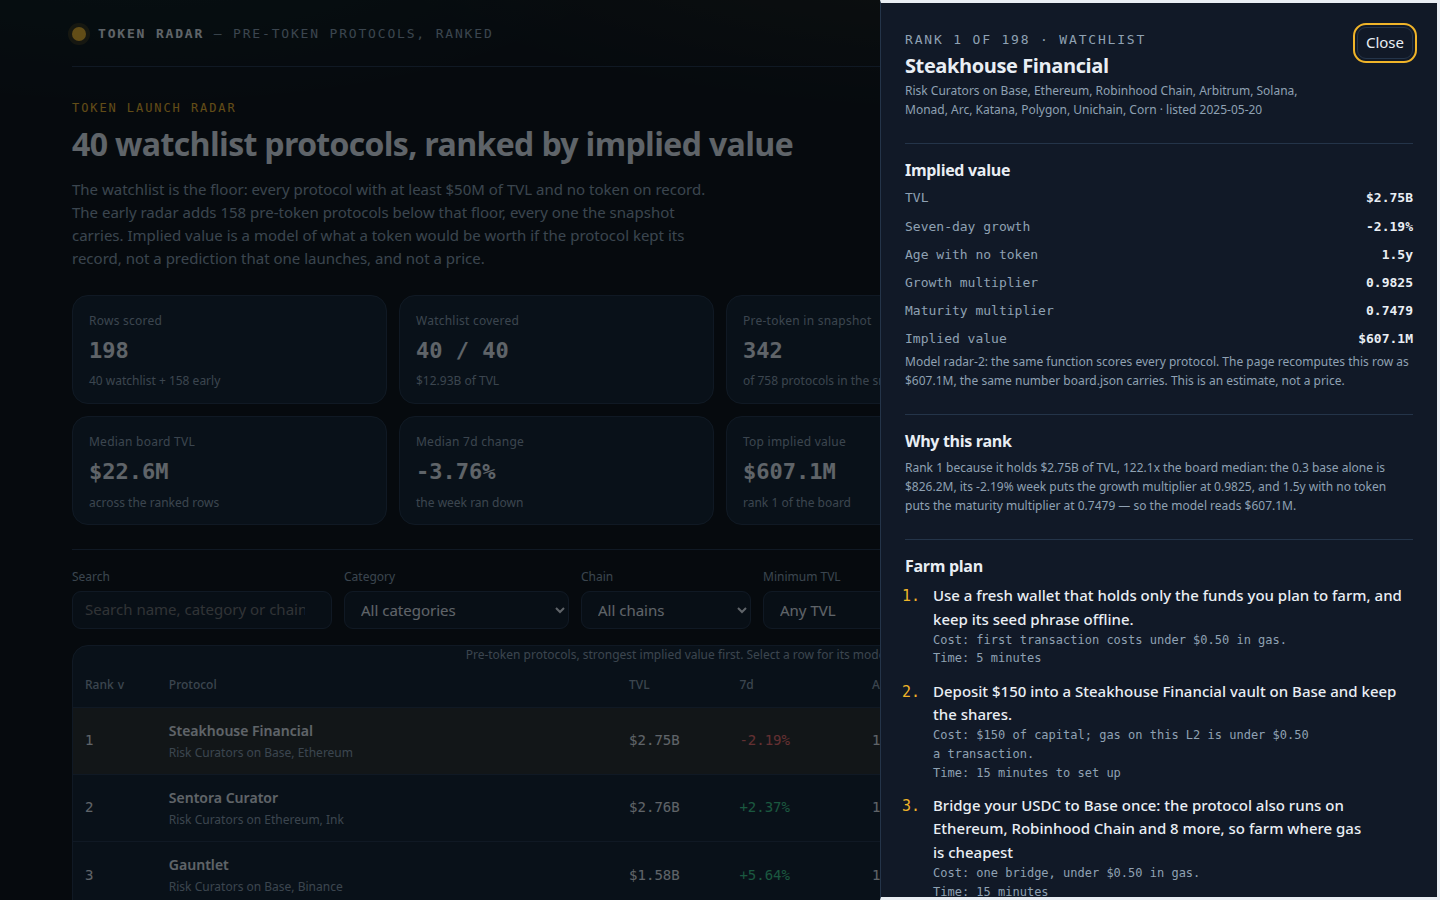
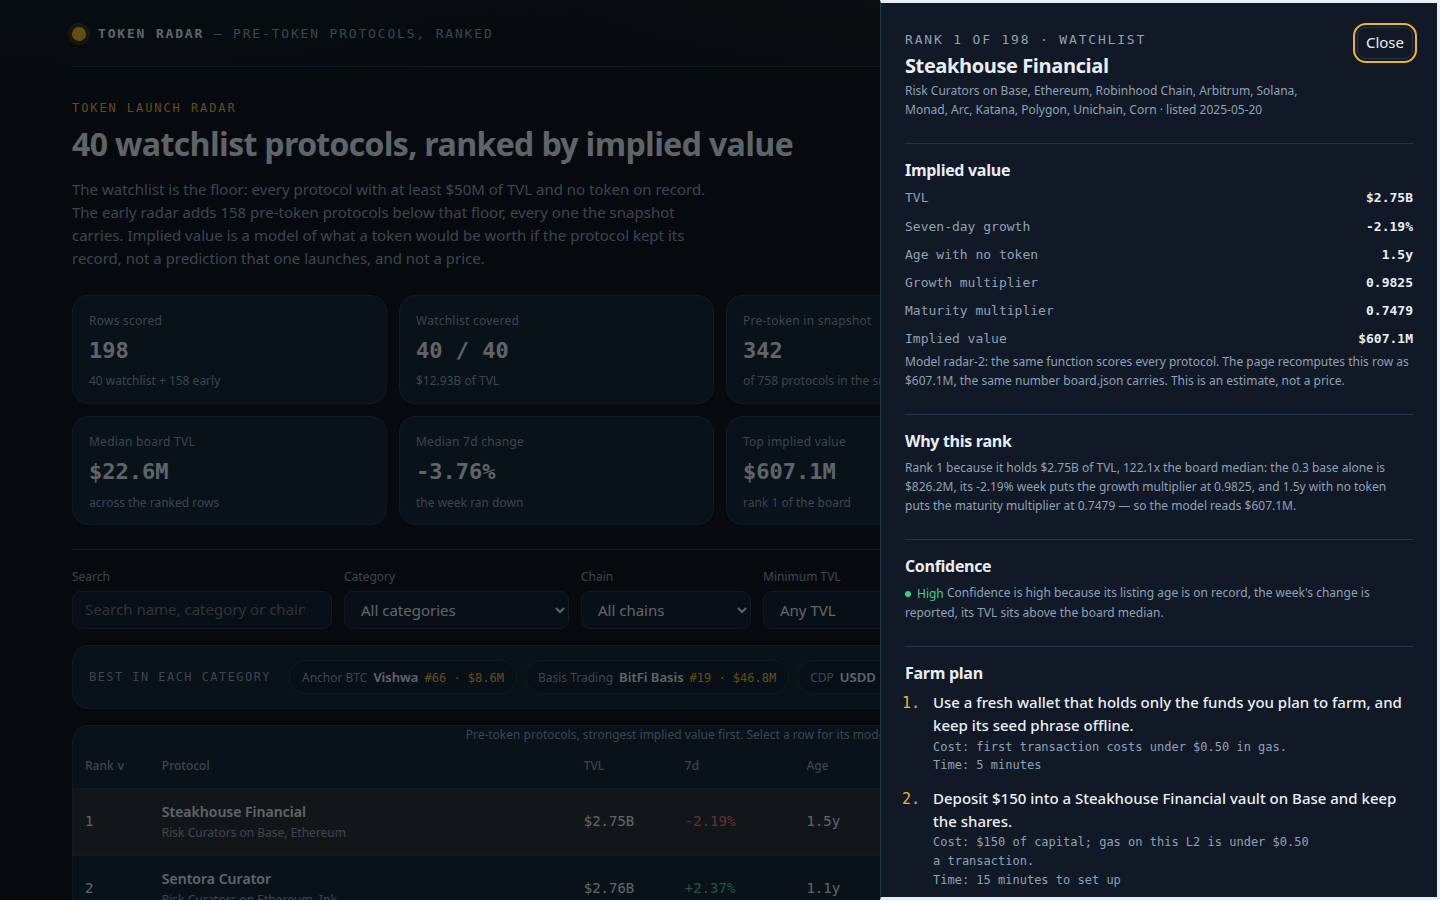
Round 3: confidence badge + Best-in-category strip + momentum risk note

diff --git a/dashboard/app.js b/dashboard/app.js
@@ -43,6 +43,33 @@ function whyRank(row, model, medianTvl) {
   return 'Rank ' + row.rank + ' because it holds ' + fmtUsd(row.tvl_usd) + ' of TVL, ' + ratio + 'x the board median: the ' + model.base_multiple + ' base alone is ' + fmtUsd(base) + ', ' + growth + ', and ' + age + ' puts the maturity multiplier at ' + row.maturity_multiplier + ' — so the model reads ' + fmtUsd(row.implied_value_usd) + '.';
 }
 
+/** A row's confidence, the same rule lib/model.ts writes to board.json: high needs a recorded
+    age, a reported 7-day change and a TVL at or above the board median; low is an estimated
+    age together with a missing week or a fall past 10%, worse than the board median's -8.2%
+    week; everything else is medium. */
+function confidenceOf(row, medianTvl) {
+  var ageKnown = row.age_days !== null && row.age_days !== undefined;
+  var growthKnown = row.change_7d !== null && row.change_7d !== undefined;
+  var aboveMedian = row.tvl_usd >= medianTvl;
+  if (ageKnown && growthKnown && aboveMedian) return 'high';
+  if (!ageKnown && (!growthKnown || row.change_7d < -10)) return 'low';
+  return 'medium';
+}
+function confidenceLabel(conf) { return conf.charAt(0).toUpperCase() + conf.slice(1); }
+/** One line on what drove a row's confidence, from the same three facts the rule reads. */
+function confidenceWhy(row, medianTvl) {
+  var conf = confidenceOf(row, medianTvl);
+  var ageKnown = row.age_days !== null && row.age_days !== undefined;
+  var growthKnown = row.change_7d !== null && row.change_7d !== undefined;
+  var aboveMedian = row.tvl_usd >= medianTvl;
+  var bits = [];
+  bits.push(ageKnown ? 'its listing age is on record' : 'its listing age is unknown, so the model counts 180 days');
+  if (growthKnown && row.change_7d < -10) bits.push('TVL fell ' + Math.abs(row.change_7d).toFixed(1) + '% this week');
+  else bits.push(growthKnown ? "the week's change is reported" : 'no 7-day change is on record');
+  bits.push(aboveMedian ? 'its TVL sits above the board median' : 'its TVL sits below the board median');
+  return 'Confidence is ' + conf + ' because ' + bits.join(', ') + '.';
+}
+
 /** The model in one function: TVL x base, growth, maturity — the same as lib/model.ts. */
 function impliedOf(row, model) {
   var growth = Math.min(model.growth_cap, Math.max(model.growth_floor, row.change_7d === null || row.change_7d === undefined ? 0 : row.change_7d));
@@ -147,6 +174,12 @@ function timeEstimate(holdDays, ageDays) {
   var hours = Math.round(minutes / 30) / 2;
   return 'about ' + hours + ' hour' + (hours === 1 ? '' : 's') + ' of activity spread over ' + holdDays + ' days';
 }
+/** A momentum warning for a protocol whose TVL fell this week, or null when it did not: the
+    same derivation main.ts writes to board.json. */
+function momentumNote(p) {
+  if (p.change_7d === null || p.change_7d === undefined || p.change_7d >= 0) return null;
+  return ' TVL fell ' + Math.abs(p.change_7d).toFixed(1) + '% this week — size the first position small and re-check before adding.';
+}
 function farmSteps(p) {
   var chain = chainOf(p);
   var capital = capitalFor(p);
@@ -162,7 +195,7 @@ function farmSteps(p) {
   steps.push(
     { text: secondActionFor(p, capital, chain), cost: 'one more transaction: ' + gasHint(chain), time: '10 minutes' },
     { text: 'Make one qualifying action each week, such as a deposit, a borrow, a swap or a vote.', cost: 'each weekly action costs ' + gasPerTx(chain) + ' in gas', time: '10 minutes a week' },
-    { text: 'Hold the position for at least ' + hold + ' days so the activity is counted in more than one snapshot.', cost: 'the $' + capital + ' stays in the position', time: timeEstimate(hold, p.age_days) },
+    { text: 'Hold the position for at least ' + hold + ' days so the activity is counted in more than one snapshot.' + (momentumNote(p) || ''), cost: 'the $' + capital + ' stays in the position', time: timeEstimate(hold, p.age_days) },
     { text: "Before you withdraw, open the protocol's own points or rewards page and claim only from the link it publishes.", cost: 'no fee to check, and never pay to claim', time: '10 minutes' },
     { text: 'Write the wallet, the dates and every transaction in a farm log so you can repeat the position or unwind it.', cost: 'nothing but the log', time: '5 minutes' }
   );
@@ -364,7 +397,8 @@ function farmSteps(p) {
           el('div', { class: 'bar', 'aria-hidden': 'true' }, el('i', { style: 'width:' + Math.max(3, Math.round((r.implied_value_usd / max) * 100)) + '%' })),
           el('span', { class: 'num', text: fmtUsd(r.implied_value_usd) })
         )),
-        el('td', null, el('span', { class: r.watchlist ? 'badge watch' : 'badge', text: r.watchlist ? 'Watchlist' : 'Early' }))
+        el('td', null, el('span', { class: r.watchlist ? 'badge watch' : 'badge', text: r.watchlist ? 'Watchlist' : 'Early' })),
+        el('td', null, el('span', { class: 'badge conf-' + confidenceOf(r, DATA.median_tvl_usd), text: confidenceLabel(confidenceOf(r, DATA.median_tvl_usd)) }))
       );
       if (state.kbIndex === i) tr.classList.add('kb-selected');
       tbody.appendChild(tr);
@@ -380,7 +414,8 @@ function farmSteps(p) {
             sortHeader('growth', '7d'),
             sortHeader('age', 'Age'),
             sortHeader('implied', 'Implied value'),
-            el('th', { scope: 'col', text: 'List' })
+            el('th', { scope: 'col', text: 'List' }),
+            el('th', { scope: 'col', text: 'Confidence' })
           )),
           tbody
         )
@@ -408,6 +443,30 @@ function farmSteps(p) {
           tbody
         )
       )
+    );
+  }
+
+  /** The best in each category: the top-ranked protocol of every category on the board, one
+      chip each, in a single scrolling strip above the table. Select a chip to open that
+      protocol's model and farm plan. The strip reads the whole board, not the filters, so it
+      stays a map of the board while the table narrows. */
+  function bestStrip() {
+    var byCat = {};
+    DATA.rows.forEach(function (r) {
+      var cat = r.category || 'Other';
+      if (!byCat[cat] || r.rank < byCat[cat].rank) byCat[cat] = r;
+    });
+    var cats = Object.keys(byCat).sort();
+    return el('section', { class: 'panel best', 'aria-label': 'Best in each category' },
+      el('span', { class: 'best-label', text: 'Best in each category' }),
+      el('div', { class: 'best-list' }, cats.map(function (c) {
+        var r = byCat[c];
+        return el('button', { type: 'button', class: 'best-item', onclick: function () { openDetail(r.slug); } },
+          el('span', { class: 'best-cat', text: c }),
+          el('b', { text: r.name }),
+          el('span', { class: 'num', text: '#' + r.rank + ' · ' + fmtUsd(r.implied_value_usd) })
+        );
+      }))
     );
   }
 
@@ -465,6 +524,13 @@ function farmSteps(p) {
       el('p', { class: 'sub', text: whyRank(row, DATA.model, DATA.median_tvl_usd) })
     ));
     dialog.appendChild(el('section', { class: 'detail-section' },
+      el('h3', { text: 'Confidence' }),
+      el('p', { class: 'sub' },
+        el('span', { class: 'badge conf-' + confidenceOf(row, DATA.median_tvl_usd), text: confidenceLabel(confidenceOf(row, DATA.median_tvl_usd)) }),
+        ' ' + confidenceWhy(row, DATA.median_tvl_usd)
+      )
+    ));
+    dialog.appendChild(el('section', { class: 'detail-section' },
       el('h3', { text: 'Farm plan' }),
       el('ol', { class: 'steps' }, steps.map(function (s) {
         var at = s.indexOf(' Cost: ');
@@ -494,6 +560,7 @@ function farmSteps(p) {
     shell.appendChild(lede());
     shell.appendChild(tiles());
     shell.appendChild(controls());
+    if (state.tab === 'pre-token') shell.appendChild(bestStrip());
     shell.appendChild(state.tab === 'pre-token' ? boardTable() : liveTable());
     if (state.tab === 'pre-token') shell.appendChild(modelPanel());
     shell.appendChild(el('p', { class: 'footnote', text: 'Source: ' + DATA.source + '. Snapshot as of ' + DATA.as_of + '. Implied values are the radar-2 model, computed from the snapshot alone.' }));

diff --git a/lib/model.ts b/lib/model.ts
@@ -99,6 +99,7 @@ export interface BoardRow {
   watchlist: boolean;
   age_days: number | null;
   implied_value_usd: number;
+  confidence: Confidence;
   model: {
     base_multiple: number;
     growth_pct: number;
@@ -122,6 +123,7 @@ export interface RadarRow {
   listed_at: string | null;
   age_days: number | null;
   implied_value_usd: number;
+  confidence: Confidence;
   growth_multiplier: number;
   maturity_multiplier: number;
   watchlist: boolean;
@@ -196,6 +198,27 @@ export function impliedValue(protocol: SnapshotProtocol, asOf: string, model: Mo
   return { implied, growthPct, growthMult, maturityMult, age };
 }
 
+/** How sure the model's read of a row is: high, medium or low, from the snapshot figures alone. */
+export type Confidence = 'high' | 'medium' | 'low';
+
+/** A weekly fall worse than this is a strongly negative week: the board median's week was
+    -8.2%, so a fall past -10% is worse than the typical protocol's week, not a wobble. */
+export const STRONG_FALL_PCT = -10;
+
+/** A row's confidence, from three facts the snapshot carries: whether the listing age is on
+    record (an unknown age is counted as 180 days, an estimate, not a fact), whether the 7-day
+    change is reported, and whether the TVL sits at or above the board median. High needs all
+    three; low is an estimated age together with a missing or strongly negative week — the
+    read rests on the least the snapshot says; everything else is medium. */
+export function confidenceOf(row: { age_days: number | null; change_7d: number | null; tvl_usd: number }, medianTvl: number): Confidence {
+  const ageKnown = row.age_days !== null;
+  const growthKnown = row.change_7d !== null;
+  const aboveMedian = row.tvl_usd >= medianTvl;
+  if (ageKnown && growthKnown && aboveMedian) return 'high';
+  if (!ageKnown && (!growthKnown || (row.change_7d as number) < STRONG_FALL_PCT)) return 'low';
+  return 'medium';
+}
+
 /** DefiLlama's version-marker rule: a name ending in a release is a pool of another protocol. */
 const VERSIONED = /\s(V\d+(\.\d+)?|v\d+(\.\d+)?|\d+\.\d+)$/;
 
@@ -261,6 +284,8 @@ export function buildBoard(snapshot: Snapshot, model: ModelConstants = MODEL): B
     return { p, implied, growthPct, growthMult, maturityMult, age };
   });
   scored.sort((a, b) => b.implied - a.implied || (a.p.slug < b.p.slug ? -1 : a.p.slug > b.p.slug ? 1 : 0));
+  // The confidence median is the same median buildRadar reports: the board's own TVLs, sorted.
+  const medianTvl = medianOf(scored.map((s) => s.p.tvl_usd).sort((a, b) => a - b)) ?? 0;
   return scored.map((s, i) => ({
     rank: i + 1,
     slug: s.p.slug,
@@ -277,6 +302,7 @@ export function buildBoard(snapshot: Snapshot, model: ModelConstants = MODEL): B
     watchlist: watchlist.has(s.p.slug),
     age_days: s.age,
     implied_value_usd: s.implied,
+    confidence: confidenceOf({ age_days: s.age, change_7d: s.p.change_7d, tvl_usd: s.p.tvl_usd }, medianTvl),
     model: {
       base_multiple: model.base_multiple,
       growth_pct: s.growthPct,
@@ -358,6 +384,16 @@ function secondActionFor(p: SnapshotProtocol, capital: number, chain: string): s
   return `Make a second deposit of $${small} into ${name} on ${chain} a week after the first.`;
 }
 
+/** A momentum warning for a protocol whose TVL fell this week, or null when it did not: the
+    fall in per cent, and the sizing advice that follows from it. A falling week does not
+    change the implied value — the growth multiplier already carries it — but a farm plan that
+    says nothing about a falling week would send a farmer in at full size on a protocol that
+    is shrinking. The note is derived from the week's change alone, never from a name. */
+export function momentumNote(p: SnapshotProtocol): string | null {
+  if (p.change_7d === null || p.change_7d >= 0) return null;
+  return ` TVL fell ${Math.abs(p.change_7d).toFixed(1)}% this week — size the first position small and re-check before adding.`;
+}
+
 /**
  * A protocol's farm plan: seven steps, eight when it runs on more than one chain, each an
  * action with a cost and a time. The plan is derived from the protocol's own record (category,
@@ -406,7 +442,7 @@ export function farmSteps(p: SnapshotProtocol, age: number | null): FarmStep[] {
       time: '10 minutes a week',
     },
     {
-      text: `Hold the position for at least ${hold} days so the activity is counted in more than one snapshot.`,
+      text: `Hold the position for at least ${hold} days so the activity is counted in more than one snapshot.${momentumNote(p) ?? ''}`,
       cost: `the $${capital} stays in the position`,
       time: timeEstimate(hold, age),
     },
@@ -516,6 +552,7 @@ export function radarRow(row: BoardRow): RadarRow {
     listed_at: row.listed_at,
     age_days: row.age_days,
     implied_value_usd: row.implied_value_usd,
+    confidence: row.confidence,
     growth_multiplier: row.model.growth_multiplier,
     maturity_multiplier: row.model.maturity_multiplier,
     watchlist: row.watchlist,

diff --git a/dashboard/app.css b/dashboard/app.css
@@ -107,6 +107,23 @@ tbody tr.kb-selected { background: rgba(240, 180, 41, 0.14); outline: 2px solid 
 .badge.watch::before { background: var(--accent); }
 .badge.live { color: var(--muted); }
 .badge.live::before { background: var(--muted); }
+.badge.conf-high { color: var(--positive); }
+.badge.conf-high::before { background: var(--positive); }
+.badge.conf-medium { color: var(--accent); }
+.badge.conf-medium::before { background: var(--accent); }
+.badge.conf-low { color: var(--negative); }
+.badge.conf-low::before { background: var(--negative); }
+
+/* Best in each category: one compact band above the table, a label on the left and the
+   category leaders scrolling beside it, so 33 categories cost one row of height. */
+.best { display: flex; align-items: center; gap: var(--s4); padding: var(--s3) var(--s4); margin-bottom: var(--s4); }
+.best-label { flex: none; font-family: var(--font-num); font-size: 12px; letter-spacing: 0.12em; text-transform: uppercase; color: var(--muted); }
+.best-list { display: flex; gap: var(--s2); overflow-x: auto; min-width: 0; padding: 2px; }
+.best-item { flex: none; display: inline-flex; align-items: baseline; gap: 6px; padding: 6px 12px; border: 1px solid var(--border); border-radius: 999px; background: var(--surface); color: var(--ink); font-size: 13px; white-space: nowrap; }
+.best-item:hover { border-color: var(--accent); }
+.best-cat { color: var(--muted); font-size: 12px; }
+.best-item b { font-weight: 600; }
+.best-item .num { color: var(--accent); font-size: 12px; }
 
 .model { margin-top: var(--s4); padding: var(--s5); display: grid; gap: var(--s3); }
 .formula { font-family: var(--font-num); font-size: 13px; line-height: 1.7; color: var(--muted); overflow-wrap: anywhere; background: var(--canvas); border: 1px solid var(--border); border-radius: var(--radius-control); padding: var(--s3) var(--s4); }
